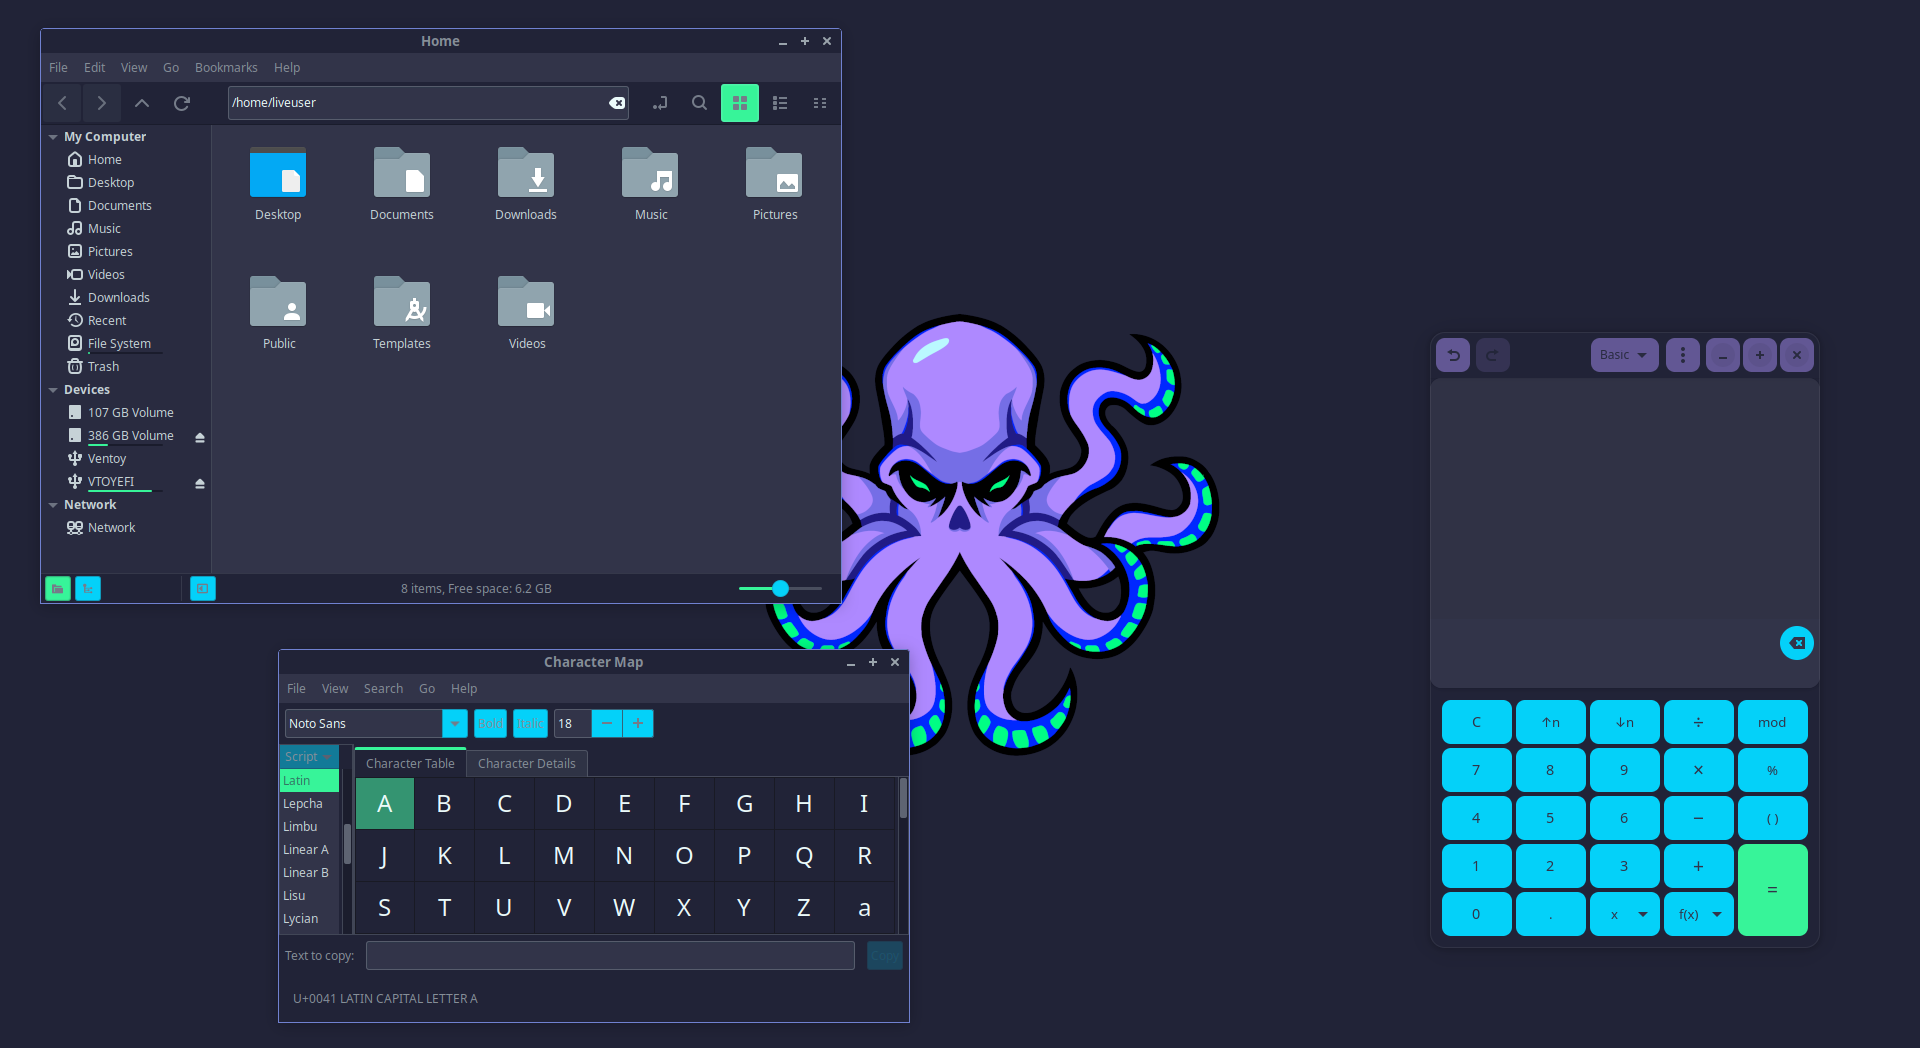
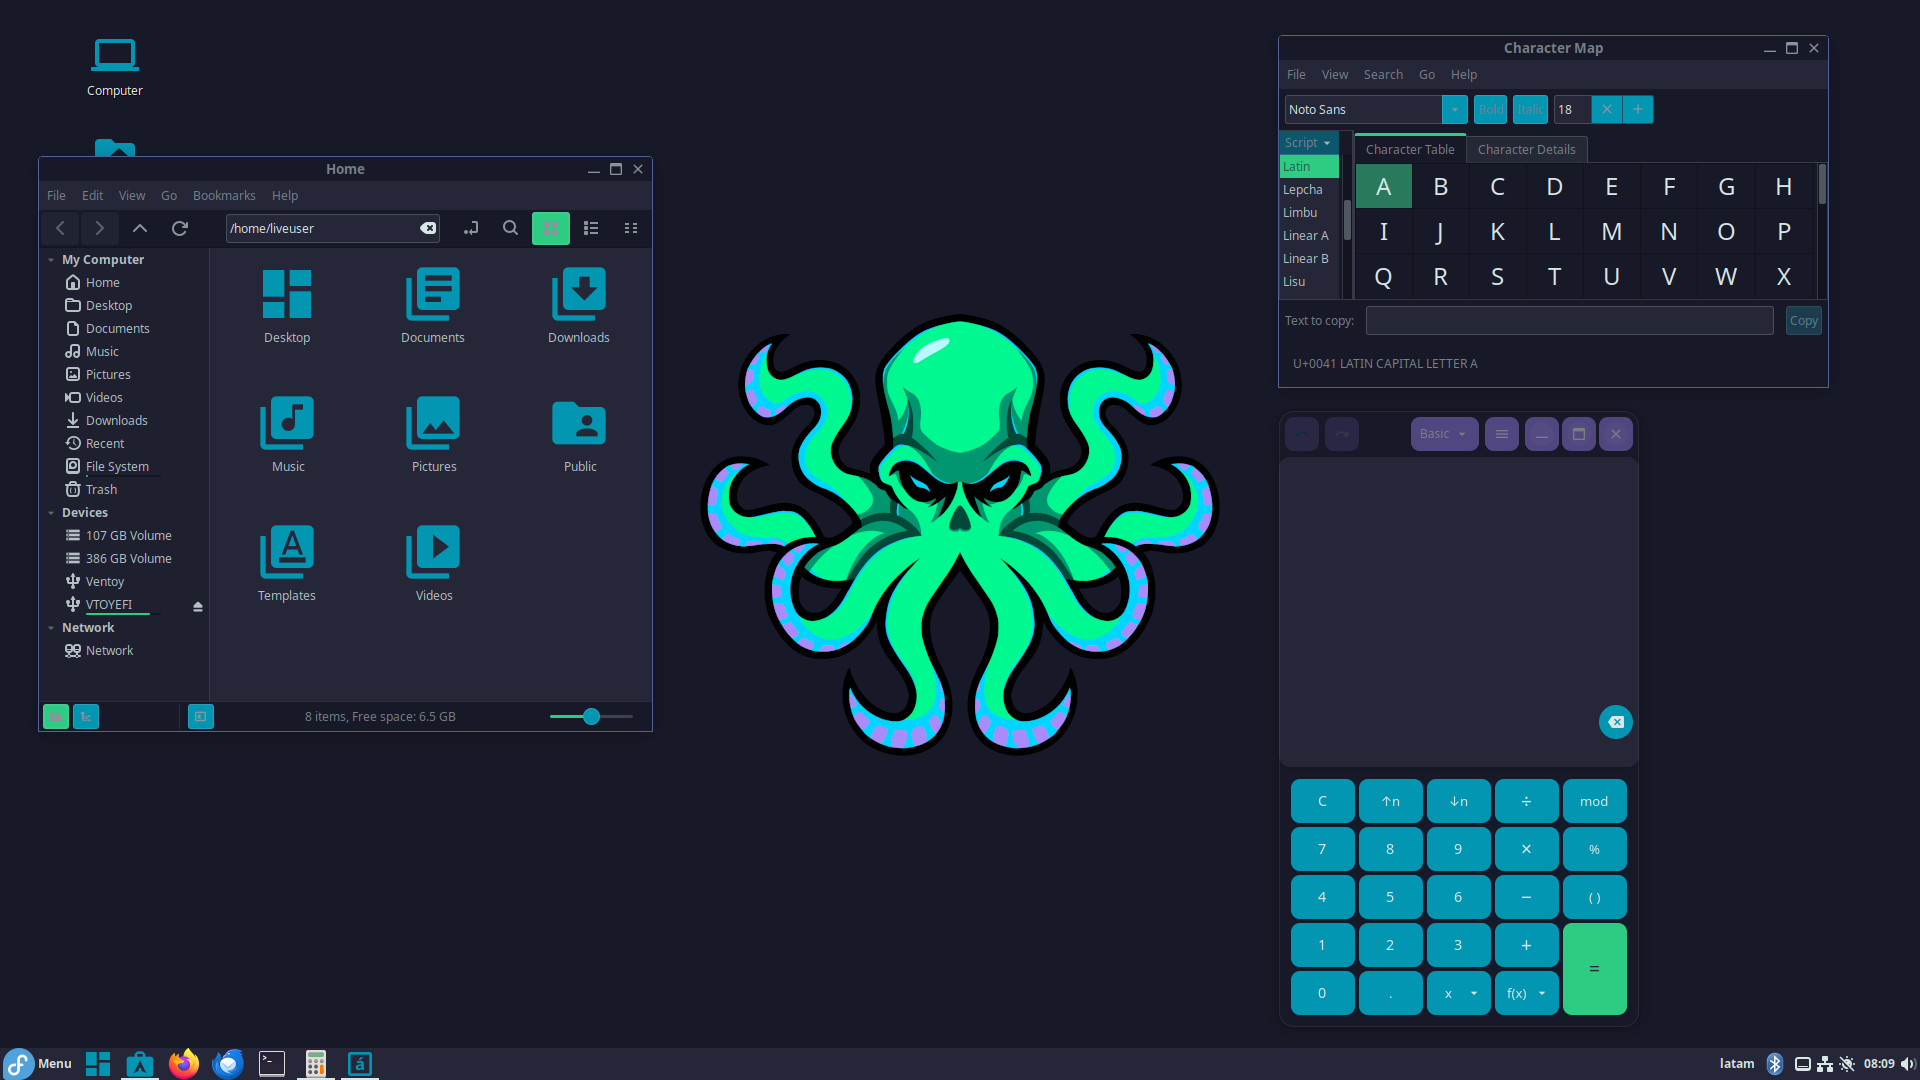
docs: new screenshots

diff --git a/README.md b/README.md
@@ -10,7 +10,7 @@ Main Theme repo can be found [here](https://github.com/eldritch-theme/eldritch)
 
 ### Showcase
 <!-- Your screenshot should go here -->
-<img src=".github/screenshots/01.png" alt="Screenshot"/><br/>
+<img src=".github/screenshots/04.png" alt="Screenshot"/><br/>
 
 ### Installation
 